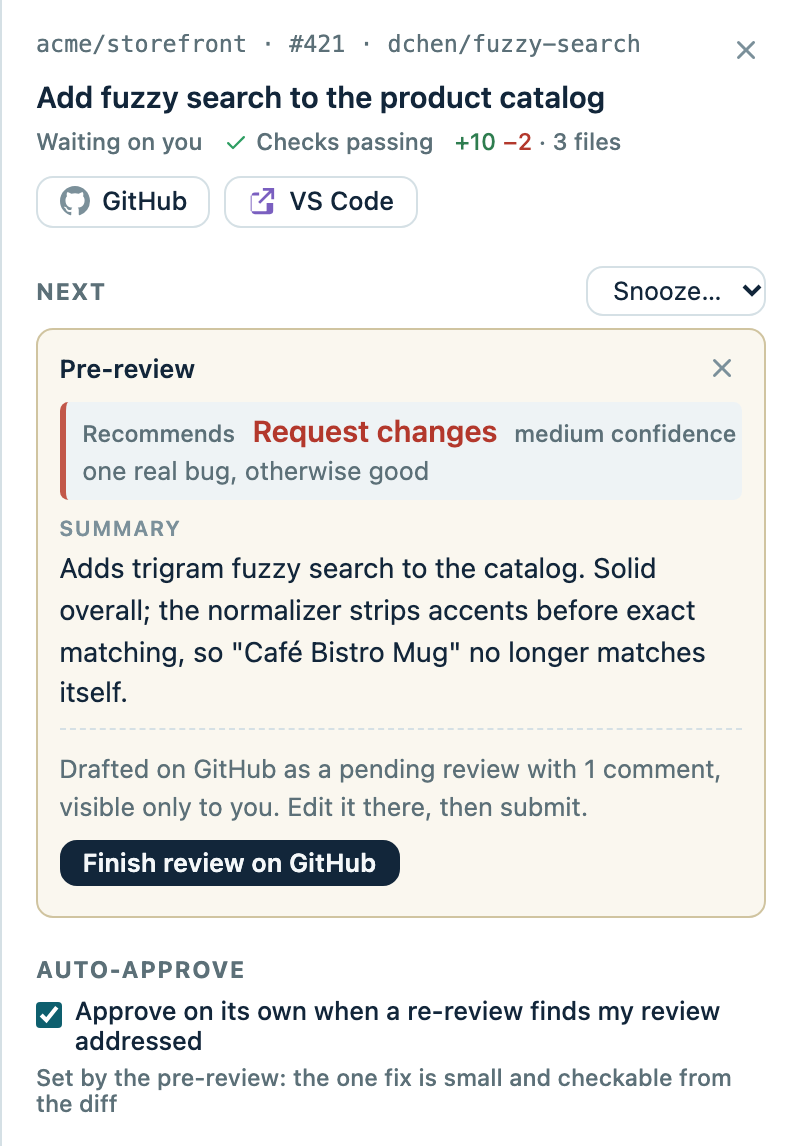
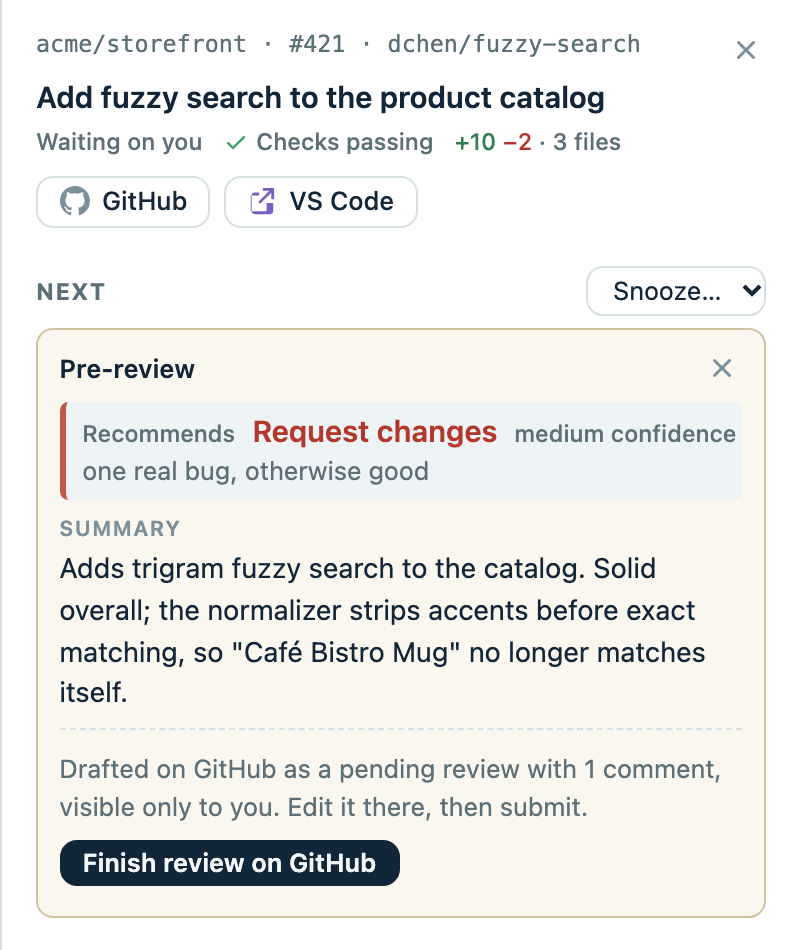
Keep auto-approve out of the README's pre-review shot (#158)
The headline workflow shots should show what the agent drafts for you
to submit, not the automatic approval option, which reads as alarming
without the trust settings around it.

diff --git a/README.md b/README.md
@@ -31,12 +31,12 @@ When something happens to a PR, Shipyard asks your coding agent about it and han
   <tr>
     <td valign="top">The agent reads the thread in the session that wrote the PR, plans the change, and drafts your reply.</td>
     <td valign="top">It reads the failing job's log, tells flaky from real, and offers a re-run or a fix.</td>
-    <td valign="top">It pre-reviews the PR and drafts a pending review on GitHub for you to finish, then can approve the follow-up once your comments are addressed.</td>
+    <td valign="top">It pre-reviews the PR and drafts a pending review on GitHub, visible only to you, for you to edit and submit.</td>
   </tr>
   <tr>
     <td valign="top"><img width="100%" src="docs/feedback.png" alt="Plan for review feedback with a drafted reply"></td>
     <td valign="top"><img width="100%" src="docs/ci-failure.png" alt="Why CI failed, with Re-run failed jobs"></td>
-    <td valign="top"><img width="100%" src="docs/pre-review.png" alt="Pre-review recommending changes, with auto-approve"></td>
+    <td valign="top"><img width="100%" src="docs/pre-review.png" alt="Pre-review recommending changes, drafted as a pending review"></td>
   </tr>
 </table>
 
